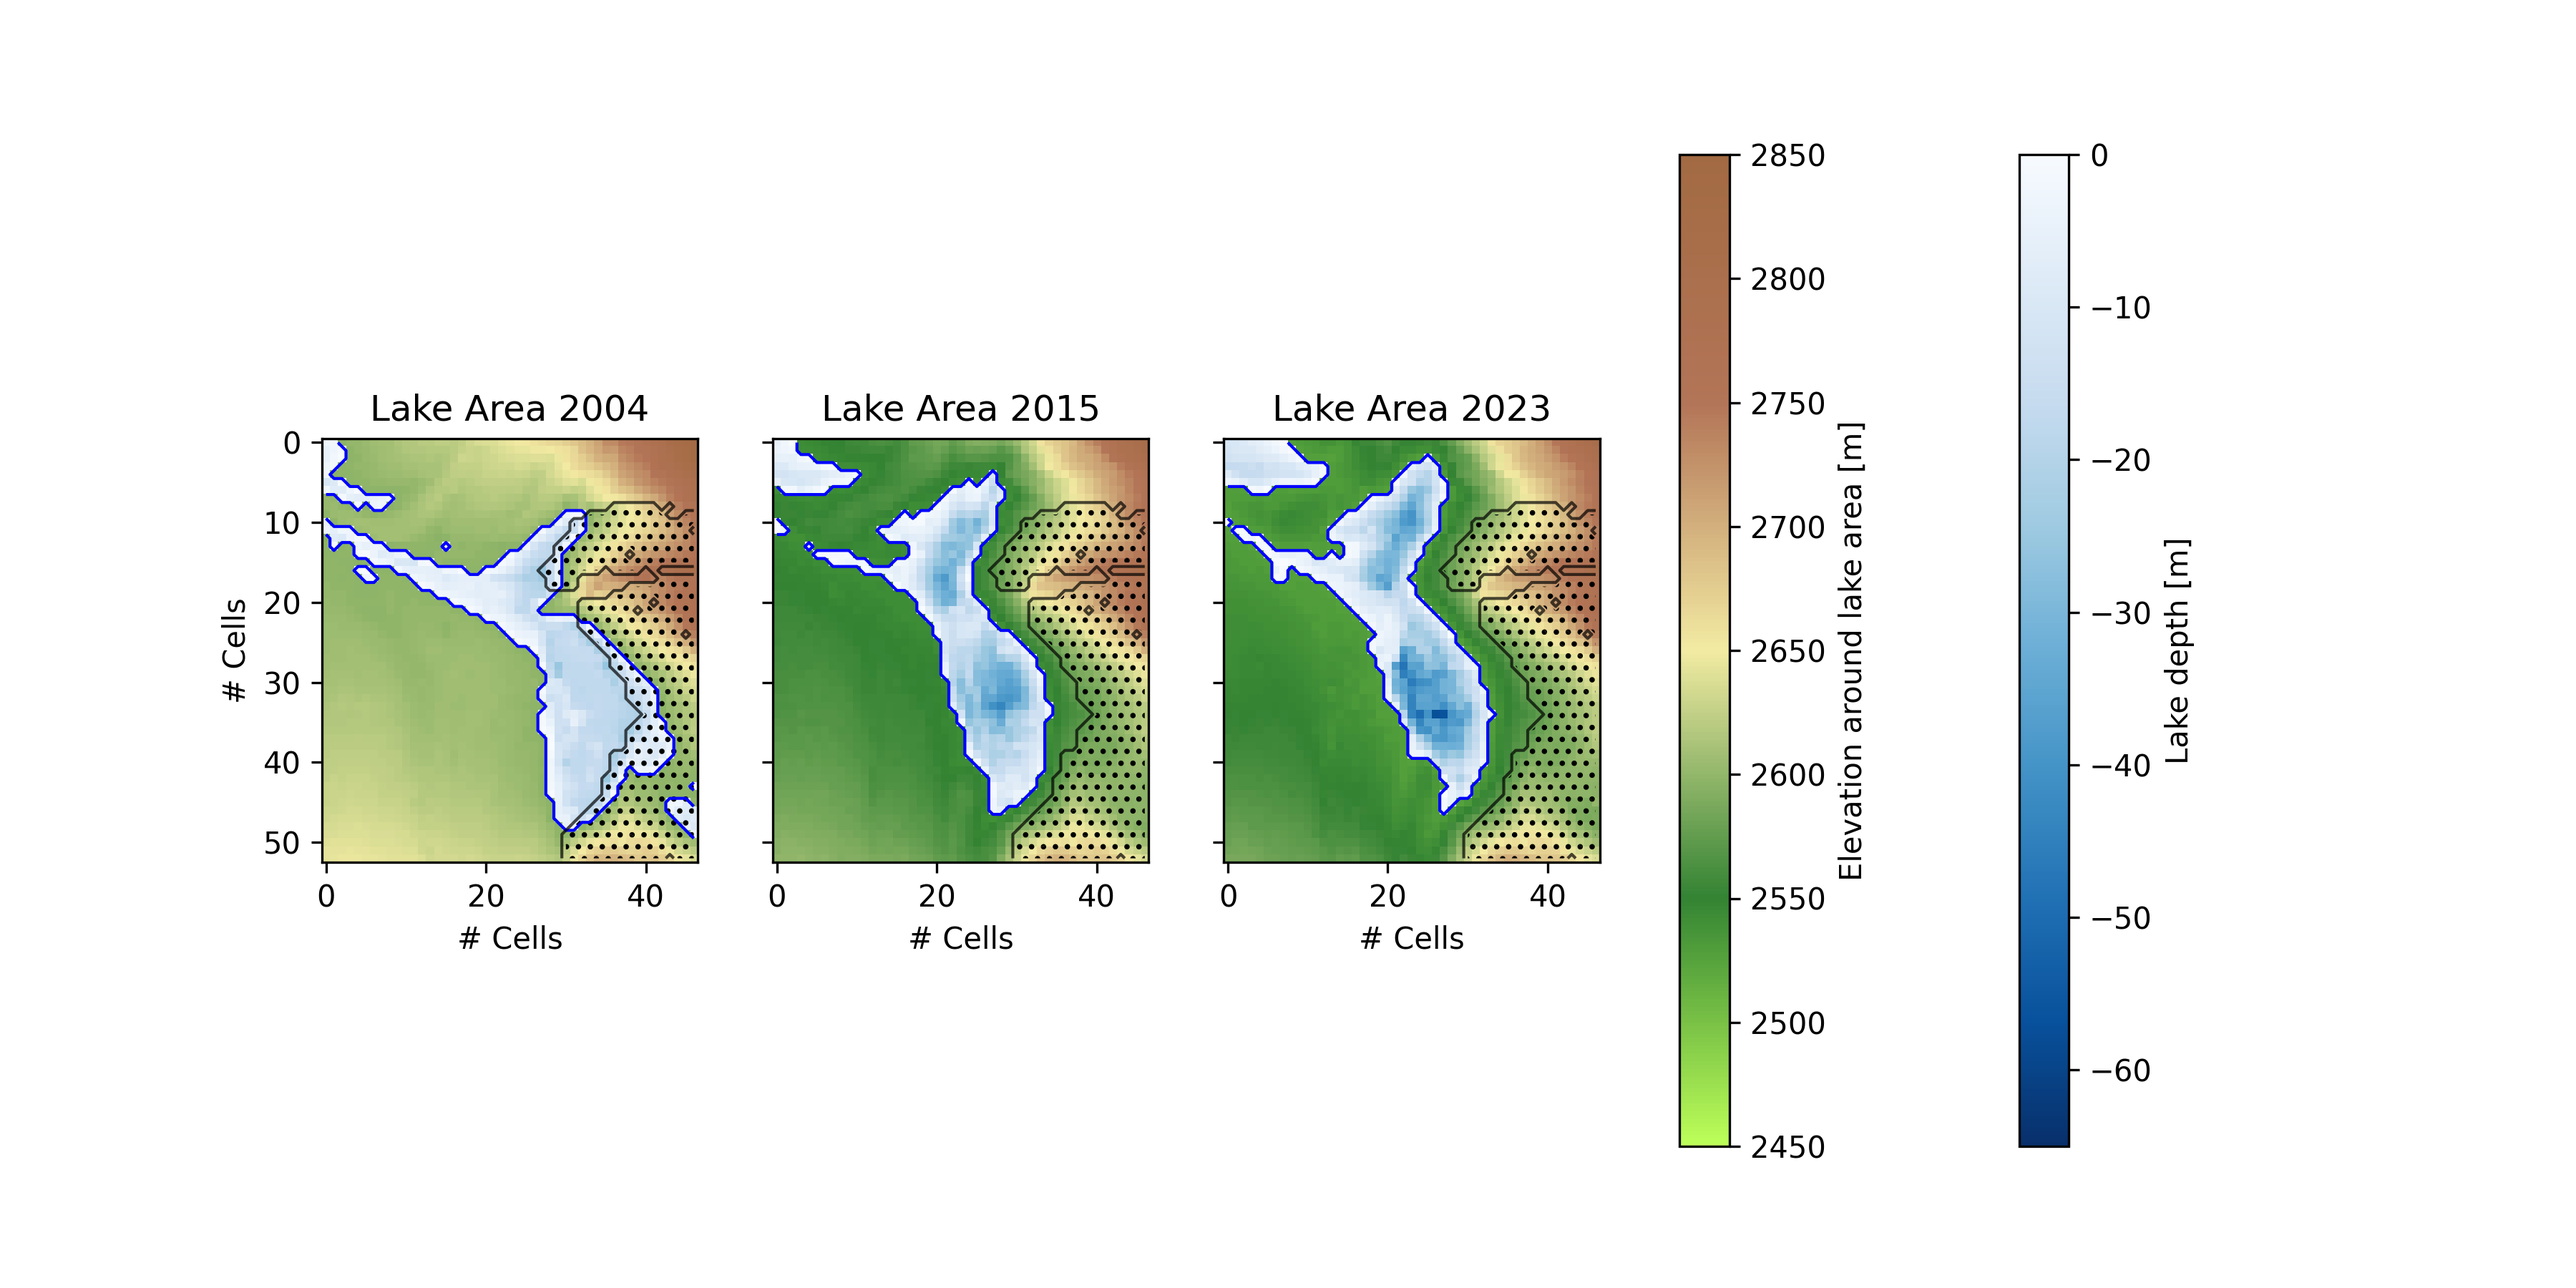
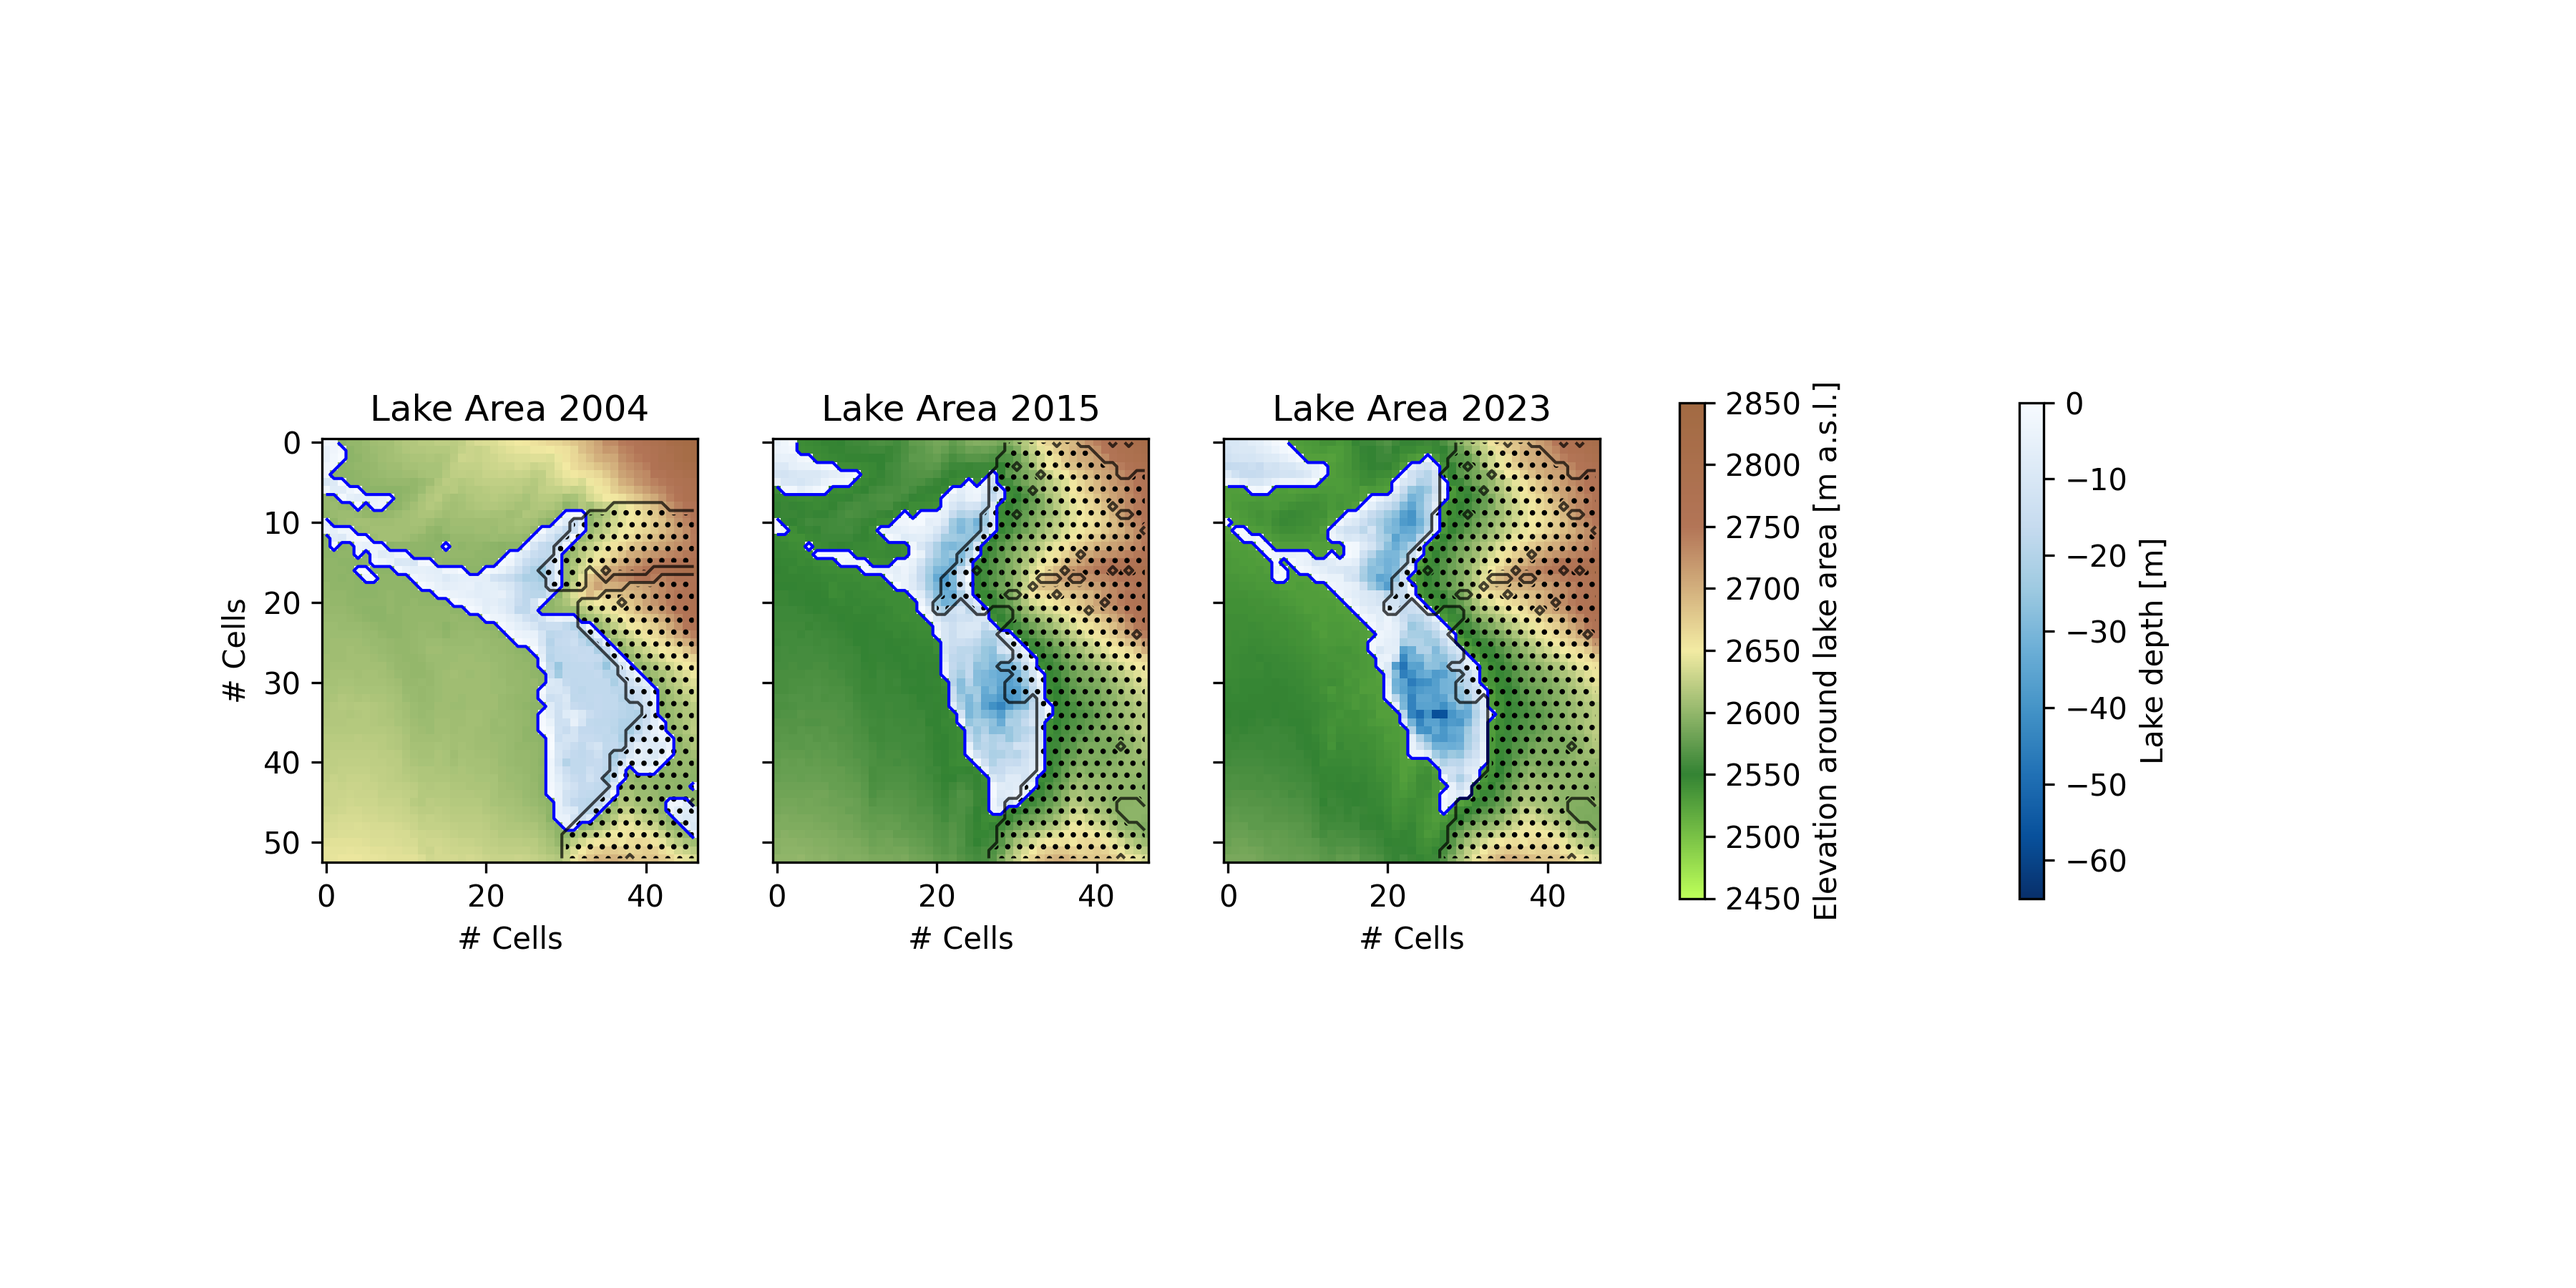
finished

diff --git a/python/Nr3.py b/python/Nr3.py
@@ -9,31 +9,17 @@ from matplotlib.patches import Patch
 from mpl_toolkits.axes_grid1 import make_axes_locatable
 import re
 import math
-
-
-# Questions to be answered: 
-#
-# 1) nr 3.1 – which threshhold should we use to distinguish glacier and rock? 
-#  --> 3 m thinning works quite well, > 0 m thinning is too patchy probably due to snow cover
-# 
-# 2) nr 3.3 – Interpolation of the lake: which lake surface elevation should we assume for the predictions of lake volume?
-#  --> possible: spillway location remains the same --> surface elevation = future spillway elevation?
-# 
-# 3) nr 3.3 – should we somehow account for glacier retreat? 
-# 
-# nr 3.3 not finished
-# nr 3.1: shrink color bars
-
+from scipy.optimize import curve_fit
 
 
 # Open rasters and masks
-with rio.open('/home/carletti/Projects/ETH/Glaciology2/data_raw/lake_dem_2004.asc') as src1:
+with rio.open('data_raw/lake_dem_2004.asc') as src1:
     lake_2004 = src1.read(1)
 
-with rio.open('/home/carletti/Projects/ETH/Glaciology2/data_raw/lake_dem_2015.asc') as src2:
+with rio.open('data_raw/lake_dem_2015.asc') as src2:
     lake_2015 = src2.read(1)
 
-with rio.open('/home/carletti/Projects/ETH/Glaciology2/data_raw/lake_dem_2023.asc') as src3:
+with rio.open('data_raw/lake_dem_2023.asc') as src3:
     lake_2023 = src3.read(1)
 
 # Spillway data
@@ -77,9 +63,9 @@ dem_elev_diff_2015 = lake_2015 - spillways["elevation"][1]
 dem_elev_diff_2023 = lake_2023 - spillways["elevation"][2]
 
 # create lake mask (only areas below 0) 
-mask_lake_2004 = (np.where(dem_elev_diff_2004 <= 0, 1, 0))
-mask_lake_2015 = (np.where(dem_elev_diff_2015 <= 0, 1, 0))
-mask_lake_2023 = (np.where(dem_elev_diff_2023 <= 0, 1, 0))
+mask_lake_2004 = (np.where(dem_elev_diff_2004 < 0, 1, 0))
+mask_lake_2015 = (np.where(dem_elev_diff_2015 < 0, 1, 0))
+mask_lake_2023 = (np.where(dem_elev_diff_2023 < 0, 1, 0))
 
 # create dems with lake depth - negative
 dem_lake_depth_2004 = dem_elev_diff_2004 * mask_lake_2004
@@ -97,7 +83,7 @@ v_lake_2023 = round(dem_lake_depth_2023.sum() * res_x * res_y / (10**6), ndigits
 # GLACIER -------------------------------
 
 # compute thinning
-dem_thinning_2004 = lake_2023 - lake_2004 
+dem_thinning_2004 = lake_2015 - lake_2004 
 dem_thinning_2015 = lake_2023 - lake_2015
 dem_thinning_rate = dem_thinning_2015 / (2023-2015) # m/yr
 
@@ -112,7 +98,7 @@ mask_glacier_lake = (np.where((mask_glacier_2015 == 1) & (mask_lake_2023 == 1), 
 mask_rock = (np.where(mask_glacier_2015 == 0, 1, 0))
 
 # compute thinning rates for glacier below lake and glacier
-thinning_rate_lake = (dem_thinning_rate * mask_glacier_lake).sum() / mask_glacier_lake.sum() # - m/yr
+thinning_rate_lake = (dem_thinning_rate * mask_lake_2023).sum() / mask_lake_2023.sum() # - m/yr
 thinning_rate_glacier = (dem_thinning_rate * mask_glacier_no_lake).sum() / mask_glacier_no_lake.sum() # - m/yr
 
 
@@ -120,7 +106,8 @@ thinning_rate_glacier = (dem_thinning_rate * mask_glacier_no_lake).sum() / mask_
 # PREDICT FUTURE LAKE VOLUME -------------------
 
 # compute future dems with thinning in glacier areas 
-# all based on lake area 2023. should we use future lake areas for the mask of the lake?
+# lake extents are the same outside the rock. 
+# therefore no use of future lake areas for the mask of the lake necessary
 def get_future_dem(year):
     n_years = year - 2023
     dem_rock = lake_2023 * mask_rock
@@ -149,9 +136,9 @@ dem_elev_diff_2027 = lake_2027 - spillways["elevation"][4]
 dem_elev_diff_2032 = lake_2032 - spillways["elevation"][5]
 
 # create lake mask (only areas below 0) 
-mask_lake_2024 = (np.where(dem_elev_diff_2024 <= 0, 1, 0))
-mask_lake_2027 = (np.where(dem_elev_diff_2027 <= 0, 1, 0))
-mask_lake_2032 = (np.where(dem_elev_diff_2032 <= 0, 1, 0))
+mask_lake_2024 = (np.where(dem_elev_diff_2024 < 0, 1, 0))
+mask_lake_2027 = (np.where(dem_elev_diff_2027 < 0, 1, 0))
+mask_lake_2032 = (np.where(dem_elev_diff_2032 < 0, 1, 0))
 
 # create dems with lake depth - negative
 dem_lake_depth_2024 = dem_elev_diff_2024 * mask_lake_2024
@@ -165,6 +152,33 @@ v_lake_2032 = round(dem_lake_depth_2032.sum() * res_x * res_y / (10**6), ndigits
 
 
 
+# FIT CLAGUE MATHEWS RELATIONSHIP --------------
+
+# clague mathews relation
+def clague_mathews(Vol, k):
+    Q = k * (Vol ** (2/3))
+    return Q
+
+Vol = np.array([v_lake_2004, v_lake_2015, v_lake_2023])  # predictor
+Qmax = np.array(spillways["peak discharge"][0:3]) # target
+
+# model fitting
+k_opt, k_cov = curve_fit(clague_mathews, Vol, Qmax)
+
+# Compute values for the fitted curve
+x_model = np.linspace(min(Vol)-0.5, max(Vol)+2, 50)
+y_model = clague_mathews(x_model, k_opt)
+
+# Predict discharge 2024, 27 and 32
+Vol_future = np.array([v_lake_2024, v_lake_2027, v_lake_2032])
+Q_future = clague_mathews(Vol_future, k_opt)
+
+# add data to spillways dataframe
+Q_future = np.round(Q_future, 3)
+spillways["peak discharge"][3:] = Q_future
+
+
+
 # PLOTS & RESULTS ----------------------
 
 # for plotting: remove cells outside of lake
@@ -175,8 +189,9 @@ dem_lake_depth_2024[mask_lake_2024 == 0] = np.nan
 dem_lake_depth_2027[mask_lake_2027 == 0] = np.nan
 dem_lake_depth_2032[mask_lake_2032 == 0] = np.nan
 
-# for plotting: remove glacierized cells
+# for plotting the rock area: remove glacierized cells
 dem_elev_diff_2004[mask_glacier_2004 == 1] = np.nan
+dem_elev_diff_2015[mask_glacier_2015 == 1] = np.nan
 
 # plot lake area and depth
 fig, axs = plt.subplots(nrows=1, ncols=3, sharey=True, sharex=True, figsize=(12, 6))
@@ -185,17 +200,17 @@ im1 = axs[0].imshow(lake_2004, cmap=cmap_terrain, alpha=0.8, vmin= 2450, vmax = 
 im2 = axs[1].imshow(lake_2015, cmap=cmap_terrain, alpha=0.8, vmin= 2450, vmax = 2850)
 im3 = axs[2].imshow(lake_2023, cmap=cmap_terrain, alpha=0.8, vmin= 2450, vmax = 2850)
 axs[0].contourf(dem_elev_diff_2004, colors="white", hatches=["..."], alpha=0) # hatching of rock area
-axs[1].contourf(dem_elev_diff_2004, colors="white", hatches=["..."], alpha=0)
-axs[2].contourf(dem_elev_diff_2004, colors="white", hatches=["..."], alpha=0)
+axs[1].contourf(dem_elev_diff_2015, colors="white", hatches=["..."], alpha=0)
+axs[2].contourf(dem_elev_diff_2015, colors="white", hatches=["..."], alpha=0)
 im4 = axs[0].imshow(dem_lake_depth_2004, cmap="Blues_r", vmin= -65, vmax = 0) # adjust all grids to use the same colorbar
 im5 = axs[1].imshow(dem_lake_depth_2015, cmap="Blues_r", vmin= -65, vmax = 0)
 im6 = axs[2].imshow(dem_lake_depth_2023, cmap="Blues_r", vmin= -65, vmax = 0)
 axs[0].contour(mask_lake_2004, levels=[0.5], colors='blue', linestyles='solid', linewidths=1)
 axs[1].contour(mask_lake_2015, levels=[0.5], colors='blue', linestyles='solid', linewidths=1)
 axs[2].contour(mask_lake_2023, levels=[0.5], colors='blue', linestyles='solid', linewidths=1)
-axs[0].contour(mask_glacier, levels=[0.5], colors='black', linestyles='solid', linewidths=1, alpha=0.7)
-axs[1].contour(mask_glacier, levels=[0.5], colors='black', linestyles='solid', linewidths=1, alpha=0.7)
-axs[2].contour(mask_glacier, levels=[0.5], colors='black', linestyles='solid', linewidths=1, alpha=0.7)
+axs[0].contour(mask_glacier_2004, levels=[0.5], colors='black', linestyles='solid', linewidths=1, alpha=0.7)
+axs[1].contour(mask_glacier_2015, levels=[0.5], colors='black', linestyles='solid', linewidths=1, alpha=0.7)
+axs[2].contour(mask_glacier_2015, levels=[0.5], colors='black', linestyles='solid', linewidths=1, alpha=0.7)
 axs[0].set_title("Lake Area 2004")
 axs[1].set_title("Lake Area 2015")
 axs[2].set_title("Lake Area 2023")
@@ -203,26 +218,25 @@ axs[0].set_ylabel("# Cells")
 axs[0].set_xlabel("# Cells")
 axs[1].set_xlabel("# Cells")
 axs[2].set_xlabel("# Cells")
-fig.colorbar(im6, ax=axs, orientation='vertical', label="Lake depth [m]", shrink=1.0)
-fig.colorbar(im3, ax=axs, orientation='vertical', label="Elevation around lake area [m]",  shrink=1.0)
-plt.savefig("Glaciology2/plots/lake_depth.png", dpi=300)
+fig.colorbar(im6, ax=axs, orientation='vertical', label="Lake depth [m]", shrink=0.5)
+fig.colorbar(im3, ax=axs, orientation='vertical', label="Elevation around lake area [m a.s.l.]", shrink=0.5)
+plt.savefig("plots/lake_depth.png", dpi=300)
 plt.show()
 
 
 # for plotting: remove cells that should not be plotted
 dem_thinning_rate[mask_glacier_2015 == 0] = np.nan
-lake_2004[mask_glacier_2015 == 1] = np.nan
 
 # Plot Glacial thinning 
-plt.imshow(dem_thinning_rate, cmap="Blues_r")
-plt.contour(mask_lake_2023, levels=[0.5], colors='blue', linestyles='solid', linewidths=1)
+fig2 = plt.imshow(dem_thinning_rate, cmap="Blues_r")
+plt.contour(mask_lake_2015, levels=[0.5], colors='blue', linestyles='solid', linewidths=1)
 plt.contour(mask_glacier_2015, levels=[0.5], colors='black', linestyles='solid', linewidths=1)
-plt.contourf(lake_2004, colors="white", hatches=["..."], alpha=0)
+plt.contourf(dem_elev_diff_2015, colors="white", hatches=["..."], alpha=0)
 plt.title("Glacier elevation change 2015-2023")
 plt.ylabel("# Cells")
 plt.xlabel("# Cells")
 plt.colorbar(fig2, orientation='vertical', label="Average thinning rate [m/yr]")
-plt.savefig("Glaciology2/plots/thinning_rate.png", dpi=300)
+plt.savefig("plots/thinning_rate.png", dpi=300)
 plt.show()
 
 
@@ -232,9 +246,9 @@ cmap_terrain = matplotlib.colors.LinearSegmentedColormap.from_list("", ["greenye
 im1 = axs[0].imshow(lake_2024, cmap=cmap_terrain, alpha=0.8, vmin= 2400, vmax = 2850)
 im2 = axs[1].imshow(lake_2027, cmap=cmap_terrain, alpha=0.8, vmin= 2400, vmax = 2850)
 im3 = axs[2].imshow(lake_2032, cmap=cmap_terrain, alpha=0.8, vmin= 2400, vmax = 2850)
-axs[0].contourf(lake_2004, colors="white", hatches=["..."], alpha=0) # hatching of rock area
-axs[1].contourf(lake_2004, colors="white", hatches=["..."], alpha=0)
-axs[2].contourf(lake_2004, colors="white", hatches=["..."], alpha=0)
+axs[0].contourf(dem_elev_diff_2015, colors="white", hatches=["..."], alpha=0) # hatching of rock area
+axs[1].contourf(dem_elev_diff_2015, colors="white", hatches=["..."], alpha=0)
+axs[2].contourf(dem_elev_diff_2015, colors="white", hatches=["..."], alpha=0)
 im4 = axs[0].imshow(dem_lake_depth_2024, cmap="Blues_r", vmin= -65, vmax = 0) # adjust all grids to use the same colorbar
 im5 = axs[1].imshow(dem_lake_depth_2027, cmap="Blues_r", vmin= -65, vmax = 0)
 im6 = axs[2].imshow(dem_lake_depth_2032, cmap="Blues_r", vmin= -65, vmax = 0)
@@ -251,10 +265,23 @@ axs[0].set_ylabel("# Cells")
 axs[0].set_xlabel("# Cells")
 axs[1].set_xlabel("# Cells")
 axs[2].set_xlabel("# Cells")
-fig.colorbar(im6, ax=axs, orientation='vertical', label="Lake depth [m]")
-fig.colorbar(im3, ax=axs, orientation='vertical', label="Elevation around lake area [m]")
-plt.savefig("Glaciology2/plots/predicted_lakes.png", dpi=300)
+fig.colorbar(im6, ax=axs, orientation='vertical', label="Lake depth [m]", shrink=0.5)
+fig.colorbar(im3, ax=axs, orientation='vertical', label="Elevation around lake area [m a.s.l.]", shrink=0.5)
+plt.savefig("plots/predicted_lakes.png", dpi=300)
 plt.show()
+
+
+# Plot Volume-Discharge datapoints and fitted Clague mathews curve
+plt.scatter(Vol, Qmax, label="Measured Peak Discharge")
+plt.plot(x_model, y_model, "y", label="Clague-Mathews Modeled Peak Discharge")
+plt.yscale("log")
+plt.xscale("log")
+plt.title("Lake Volume – Peak Flow Relationship")
+plt.xlabel("Lake Volume (10$^6$ m$^3$)")
+plt.ylabel("Peak Lake Discharge (m$^3$ s$^-$$^1$)")
+plt.savefig("plots/clague_mathews_model.png", dpi=300)
+plt.show()
+
 
 
 print("-"*8, "RESULTS", "-"*8)
@@ -269,6 +296,13 @@ print()
 print("Predicted Lake Volume 2024: ", v_lake_2024, "*10^6 m3")
 print("Predicted Lake Volume 2027: ", v_lake_2027, "*10^6 m3")
 print("Predicted Lake Volume 2032: ", v_lake_2032, "*10^6 m3")
+print()
+print("Ideal fitted k for Clague-Mathews relationship: ", round(k_opt[0], 4), "m s-1")
+print()
+print("Predicted peak discharge for the future lake volume")
+print("2024:", Q_future[0])
+print("2027:", Q_future[1])
+print("2032:", Q_future[2])
 print("-"*25)
 
 print()

diff --git a/python/Nr2.py b/python/Nr2.py
@@ -1,0 +1,57 @@
+import numpy as np
+import matplotlib.pyplot as plt
+import pandas as pd
+import math
+from scipy.optimize import curve_fit
+from statistics import mean
+
+
+# Glacier flow-speed data 
+# time  = time since beginning of the measurements (d)
+# speed = measured ice flow speed (m/d)
+
+# read in monitoring data
+data = pd.read_csv("data_raw/maybeunstable_velocity_data.txt", sep='\s+')
+
+# calculate start speed (first 10% of data points)
+v0 = mean(data["speed"][:20])
+
+# define function of speed with parameters to be fitted
+def glacier_velocity(t, a, m, tc):
+    vt = v0 + a / (tc - t) ** m
+    return vt
+
+# x and y variable
+t = np.array(data["time"])  # predictor
+vt = np.array(data["speed"]) # target
+
+# set bounds (a > 0, m > 0, tc >= last day of measurement)
+param_bounds = ([0.001,0.001,5636],[np.inf,np.inf,np.inf])
+
+# fit parameters
+popt, pcov = curve_fit(glacier_velocity, t, vt, bounds=param_bounds)
+
+# Compute values for plotting the fitted curve
+x_fit = np.linspace(min(t), max(t), 50)
+y_fit = glacier_velocity(x_fit, popt[0], popt[1], popt[2])
+
+# round values for output
+popt = np.round(popt, 3)
+
+# plot measured and modelled data
+plt.scatter(data["time"], data["speed"], label="Measurements")
+plt.plot(x_fit, y_fit, "r", label="Modelled relationship")
+plt.title("Glacier instability velocity data")
+plt.xlabel("Time since beginning of the measurements [d]")
+plt.ylabel("Ice flow speed [m/d]")
+plt.legend()
+plt.savefig("plots/glacier_instability.png", dpi=300)
+plt.show()
+
+print("-"*8, "RESULTS", "-"*8)
+print()
+print("fitted a: ", popt[0])
+print("fitted m: ", popt[1])
+print("day of collapse (tc): ", popt[2])
+print("-"*25)
+
